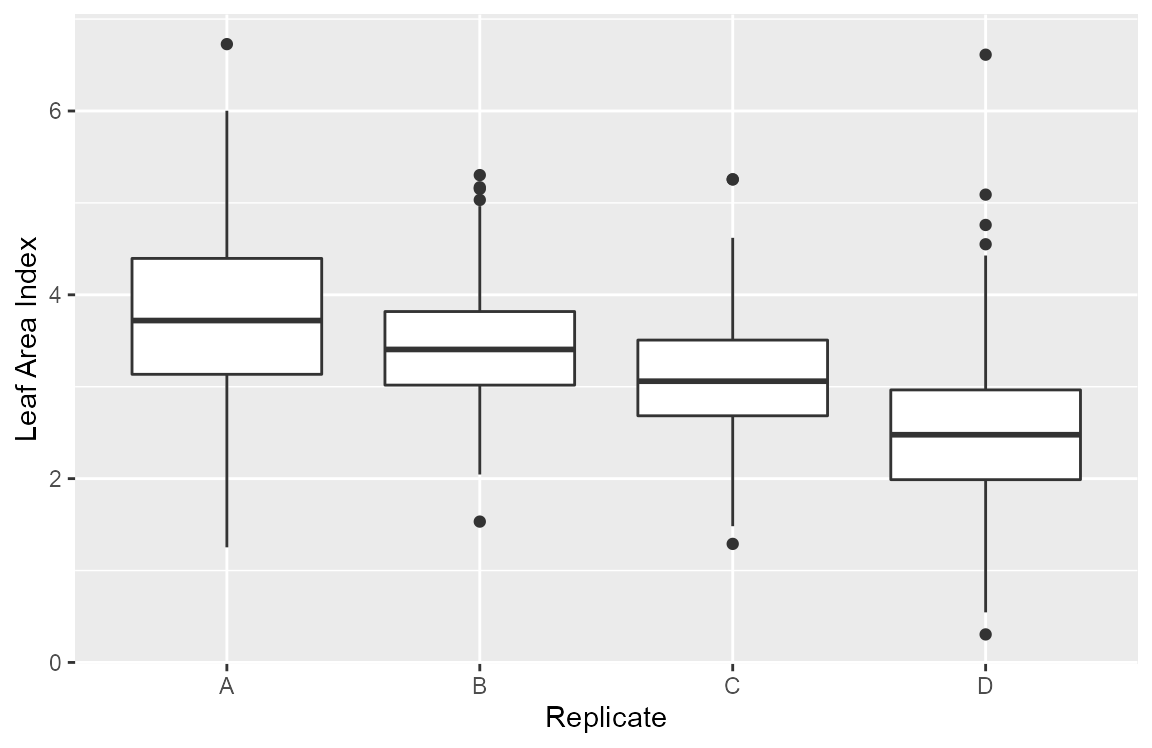
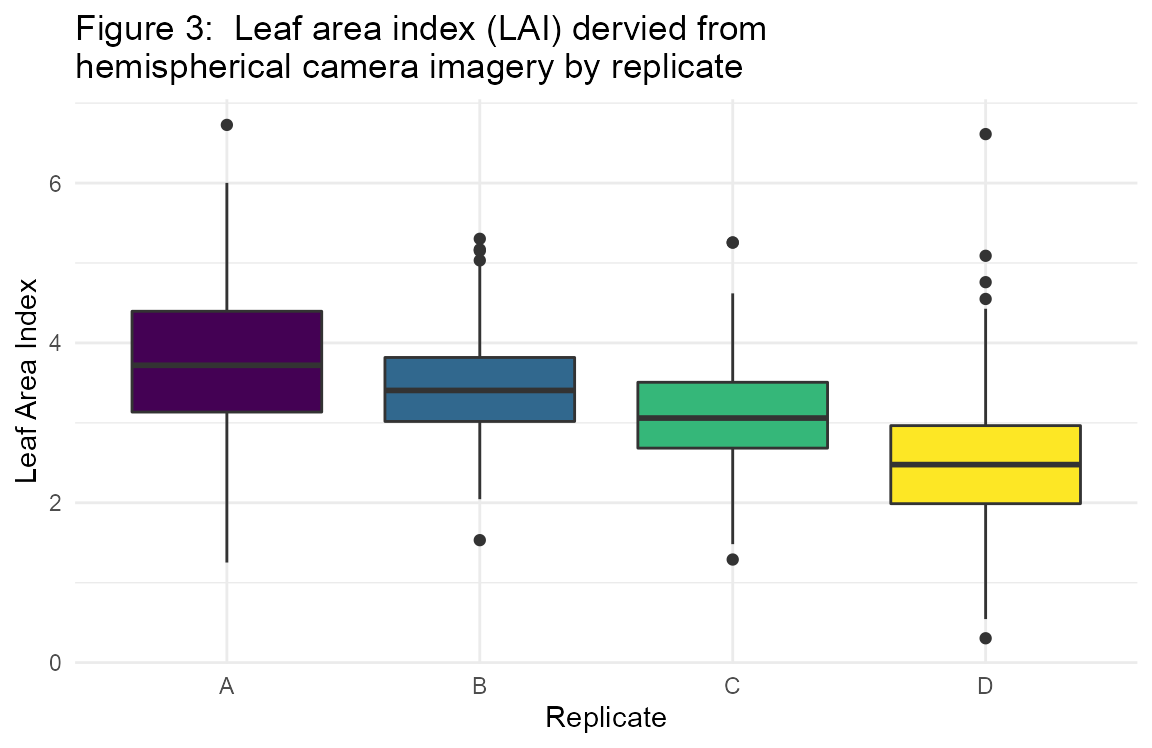
updating remote sensing vignette and fixing error in fd_ceptometer that had fapar calculated wrong

diff --git a/docs/articles/fd_remote_sensing_vignette.html b/docs/articles/fd_remote_sensing_vignette.html
@@ -105,21 +105,23 @@
 <div id="remote-sensing" class="section level2">
 <h2 class="hasAnchor">
 <a href="#remote-sensing" class="anchor"></a>Remote Sensing</h2>
-<p>Multiple remote sensing technologies are being employed in FoRTE to collect data with the goal of creating a record of forest structural and spectral change. These data are collected coincident with other data as outline below (see Remote Sensing Methods). Specifically we are focusing on collecting data monitoring canopy structural change. Canopy structure affects ecosystem functioning through altering light transmission/interception, subsequently affecting ecosystem functioning (e.g. productivity and the acquisition/use-efficiency of resources). See [the FoRTE Proposal Narrative] (<a href="https://fortexperiment.github.io/fortedata/articles/fd_forte_proposal_vignette.html" class="uri">https://fortexperiment.github.io/fortedata/articles/fd_forte_proposal_vignette.html</a>) for further details. Below we outline the remote sensing orienteed data and funcitons included in <code>fortedata</code>.</p>
+<p>Multiple remote sensing technologies are being employed in FoRTE to collect data with the goal of creating a record of forest canopy structural and spectral change. These data are collected coincident with other data as outlined below (see Remote Sensing Methods). Canopy structure affects ecosystem functioning through altering light transmission/interception, subsequently affecting ecosystem functioning (e.g. productivity and the acquisition/use-efficiency of resources). See [the FoRTE Proposal Narrative] (<a href="https://fortexperiment.github.io/fortedata/articles/fd_forte_proposal_vignette.html" class="uri">https://fortexperiment.github.io/fortedata/articles/fd_forte_proposal_vignette.html</a>) for further details.</p>
+<p>Below we outline the remote sensing oriented data and functions included in <code>fortedata</code>.</p>
 </div>
 <div id="remote-sensing-functions" class="section level2">
 <h2 class="hasAnchor">
 <a href="#remote-sensing-functions" class="anchor"></a>Remote Sensing Functions</h2>
 <p>The <code>fd_remote_sensing()</code> script within <code>fortedata</code> currently includes the following functions:</p>
 <ul>
-<li><p><code><a href="../reference/fd_hemi_camera.html">fd_hemi_camera()</a></code> returns a single dataset that includes derived estimates of leaf area index, gap fraction, clumping index, and NDVI (normalized difference vegetation index) from terrestrial, upward-facing hemispherical photos looking into the forest canopy taken 1 meter above-ground (Table S9 in ESSD manuscript, Atkins et al. 2020). The data package includes 1028 observations of each variable from 2018 and 2019.</p></li>
-<li><p><code><a href="../reference/fd_canopy_structure.html">fd_canopy_structure()</a></code> returns a single dataset that includes 28 structural metrics estimating canopy structural traits such as height, area/density, openness, complexity, and arrangement. Data were processed using <code>forestr</code> version 1.0.1 (Atkins et al. 2018) in R Version 3.6.2.</p></li>
-<li><p><code><a href="../reference/fd_ceptometer.html">fd_ceptometer()</a></code> returns a single dataset that includes estimates of the fraction of photosynthetically available radiation (faPAR) absorbed by the canopy as well as leaf area index (LAI_cept)–each derived from a handheld ceptometer (LP-80; Decagon Devices) (Table S11). The package includes 32 observations of each variable from 2019 and 16 from 2018 (Fig. 4). r</p></li>
+<li><p><code><a href="../reference/fd_hemi_camera.html">fd_hemi_camera()</a></code> returns a single data set that includes derived estimates of leaf area index, gap fraction, clumping index, and NDVI (normalized difference vegetation index) from terrestrial, upward-facing hemispherical photos looking into the forest canopy taken 1 meter above-ground (Table S9 in ESSD manuscript, Atkins et al. 2020).</p></li>
+<li><p><code><a href="../reference/fd_canopy_structure.html">fd_canopy_structure()</a></code> returns a single data set that includes 28 structural metrics estimating canopy structural traits such as height, area/density, openness, complexity, and arrangement. Data were processed using <code>forestr</code> version 1.0.1 (Atkins et al. 2018) in R Version 3.6.2.</p></li>
+<li><p><code><a href="../reference/fd_ceptometer.html">fd_ceptometer()</a></code> returns a single data set that includes estimates of the fraction of photosynthetically available radiation (faPAR) absorbed by the canopy as well as leaf area index (LAI_cept)–each derived from a handheld ceptometer (LP-80; Decagon Devices) (Table S11 in Atkins et al. 2020).</p></li>
 </ul>
 </div>
 <div id="data-availability" class="section level2">
 <h2 class="hasAnchor">
 <a href="#data-availability" class="anchor"></a>Data Availability</h2>
+<p><code>fortedata</code> is an evolving, open-science data package with data updated in near-real time. The current number of remote sensing data observations available as of 2020-12-07 are detailed in Figure 1.</p>
 <div class="sourceCode" id="cb1"><pre class="downlit sourceCode r">
 <code class="sourceCode R"><span class="va">no_of_records.df</span> <span class="op">&lt;-</span> <span class="fu"><a href="../reference/fd_observations.html">fd_observations</a></span><span class="op">(</span><span class="op">)</span>
 
@@ -136,7 +138,7 @@
   <span class="fu">ggplot2</span><span class="fu">::</span><span class="fu"><a href="https://ggplot2.tidyverse.org/reference/theme.html">theme</a></span><span class="op">(</span>legend.position <span class="op">=</span> <span class="st">"none"</span><span class="op">)</span><span class="op">+</span>
   <span class="fu">ggplot2</span><span class="fu">::</span><span class="fu"><a href="https://ggplot2.tidyverse.org/reference/labs.html">ylab</a></span><span class="op">(</span><span class="st">"Year"</span><span class="op">)</span><span class="op">+</span>
   <span class="fu">ggplot2</span><span class="fu">::</span><span class="fu"><a href="https://ggplot2.tidyverse.org/reference/labs.html">xlab</a></span><span class="op">(</span><span class="st">"Month"</span><span class="op">)</span><span class="op">+</span>
-  <span class="fu">ggplot2</span><span class="fu">::</span><span class="fu"><a href="https://ggplot2.tidyverse.org/reference/labs.html">ggtitle</a></span><span class="op">(</span><span class="fu"><a href="https://rdrr.io/r/base/paste.html">paste</a></span><span class="op">(</span><span class="st">"No. of observations currently available \nin each remote sensing function as of:"</span>, <span class="fu"><a href="https://rdrr.io/r/base/Sys.time.html">Sys.Date</a></span><span class="op">(</span><span class="op">)</span><span class="op">)</span><span class="op">)</span><span class="op">+</span>
+  <span class="fu">ggplot2</span><span class="fu">::</span><span class="fu"><a href="https://ggplot2.tidyverse.org/reference/labs.html">ggtitle</a></span><span class="op">(</span><span class="fu"><a href="https://rdrr.io/r/base/paste.html">paste</a></span><span class="op">(</span><span class="st">"Figure 1: No. of observations currently available \nin each remote sensing function as of:"</span>, <span class="fu"><a href="https://rdrr.io/r/base/Sys.time.html">Sys.Date</a></span><span class="op">(</span><span class="op">)</span><span class="op">)</span><span class="op">)</span><span class="op">+</span>
   <span class="fu">ggplot2</span><span class="fu">::</span><span class="fu"><a href="https://ggplot2.tidyverse.org/reference/facet_grid.html">facet_grid</a></span><span class="op">(</span><span class="va">table</span> <span class="op">~</span> <span class="va">.</span>,  space <span class="op">=</span> <span class="st">"free"</span><span class="op">)</span><span class="op">+</span>
   <span class="fu">ggplot2</span><span class="fu">::</span><span class="fu"><a href="https://ggplot2.tidyverse.org/reference/theme.html">theme</a></span><span class="op">(</span>strip.text.y <span class="op">=</span> <span class="fu">element_text</span><span class="op">(</span>size <span class="op">=</span> <span class="fl">9</span><span class="op">)</span>, strip.background <span class="op">=</span> <span class="fu">element_rect</span><span class="op">(</span>
     color<span class="op">=</span><span class="st">"black"</span>, fill<span class="op">=</span><span class="st">"white"</span>, size<span class="op">=</span> <span class="fl">0.5</span>, linetype<span class="op">=</span><span class="st">"solid"</span><span class="op">)</span><span class="op">)</span></code></pre></div>
@@ -145,15 +147,10 @@
 <div id="remote-sensing-methods" class="section level2">
 <h2 class="hasAnchor">
 <a href="#remote-sensing-methods" class="anchor"></a>Remote Sensing Methods</h2>
-<div id="terrestrial-lidar" class="section level3">
+<div id="canopy-structural-traits-csts-from-terrestrial-lidar" class="section level3">
 <h3 class="hasAnchor">
-<a href="#terrestrial-lidar" class="anchor"></a>Terrestrial lidar</h3>
-<p>Annual measurements of forest structure were taken using both 2- and 3-D terrestrial lidar during peak growing season (July-early August). 2-D lidar data are gathered using a Riegl 3100 VHSFLP portable canopy lidar unit (See Parker et al. 2004 and Hardiman et al. 2011 for a full description) and 3-D lidar data are collected using a Leica BLK360. Currently, 3-D lidar data are not included in <code>fortedata</code> due to processing delays resulting from Covid-19.</p>
-</div>
-<div id="canopy-structural-traits-csts" class="section level3">
-<h3 class="hasAnchor">
-<a href="#canopy-structural-traits-csts" class="anchor"></a>Canopy Structural Traits (CSTs)</h3>
-<p>We derived canopy structural trait metrics (Fahey et al. 2019) from 2-D terrestrial lidar data collected with a user-mounted, portable canopy lidar (PCL) system equipped with an upward facing, Riegl 3100VHS near‐infrared pulsed‐laser operating at 2000 Hz (Riegl LD90 3100 VHS; Riegl USA Inc., Orlando, Florida, USA). The PCL generates continuous LiDAR returns from a “slice” of the canopy as it is walked along a measured transect. For this study, we used 40 m transects at cardinal directions–north-to-south, east-to-west–through subplot center for a total of 80 m of transect length per subplot. This mirrors the approach of Atkins et al. (2018) and Hardiman et al. (2013) and is sufficient to account for spatial variability of forest structure (Hardiman et al. 2019). A more detailed description of the development and implementation of this terrestrial laser scanning system is available in Parker et al. (2004) and Hardiman et al. ( 2011). We derived canopy structural metrics using the forestr package (Atkins et al. 2018a, b) in R 3.5 (R Core Team, 2018). forestr produces a suite of canopy structural traits metrics that describe canopy area/density, openness, height, complexity, and arrangement (Atkins et al. (2018a).</p>
+<a href="#canopy-structural-traits-csts-from-terrestrial-lidar" class="anchor"></a>Canopy Structural Traits (CSTs) from Terrestrial LiDAR</h3>
+<p><code><a href="../reference/fd_canopy_structure.html">fd_canopy_structure()</a></code> contains canopy structural trait metrics (Fahey et al. 2019) derived from 2-D terrestrial lidar data. These data were collected with a user-mounted, portable canopy LiDAR (PCL) system equipped with an upward facing, pulsed‐laser operating at 2000 Hz (Riegl LD90 3100 VHS; Riegl USA Inc., Orlando, Florida, USA). The PCL generates continuous LiDAR returns from a “slice” of the canopy as it is walked along a measured transect. For this study, we used 40 m transects at cardinal directions–north-to-south, east-to-west–through subplot center for a total of 80 m of transect length per subplot. This mirrors the approach of Atkins et al. (2018) and Hardiman et al. (2013) and is sufficient to account for spatial variability of forest structure (Hardiman et al. 2019). A more detailed description of the development and implementation of this terrestrial laser scanning system is available in Parker et al. (2004) and Hardiman et al. ( 2011). We derived canopy structural metrics using the <code>forestr</code> package (Atkins et al. 2018a, b) in R 3.5 (R Core Team, 2018). Data here are provided at the transect level, but should be averaged to make a plot mean.</p>
 <div class="sourceCode" id="cb2"><pre class="downlit sourceCode r">
 <code class="sourceCode R"><span class="fu"><a href="https://rdrr.io/r/base/data.frame.html">data.frame</a></span><span class="op">(</span><span class="fu"><a href="../reference/fd_canopy_structure_summary.html">fd_canopy_structure_summary</a></span><span class="op">(</span><span class="op">)</span><span class="op">)</span>
 <span class="co">##   replicate  rugosity rugosity_sd rugosity_n rugosity_se vai_mean vai_mean_sd</span>
@@ -169,17 +166,28 @@
 <div class="sourceCode" id="cb3"><pre class="downlit sourceCode r">
 <code class="sourceCode R"><span class="va">x</span> <span class="op">&lt;-</span> <span class="fu"><a href="../reference/fd_canopy_structure.html">fd_canopy_structure</a></span><span class="op">(</span><span class="op">)</span>
 
-<span class="fu">ggplot2</span><span class="fu">::</span><span class="fu"><a href="https://ggplot2.tidyverse.org/reference/ggplot.html">ggplot</a></span><span class="op">(</span><span class="va">x</span>, <span class="fu">aes</span><span class="op">(</span>y <span class="op">=</span> <span class="va">rugosity</span>, x <span class="op">=</span> <span class="va">replicate</span><span class="op">)</span><span class="op">)</span><span class="op">+</span>
+<span class="fu">ggplot2</span><span class="fu">::</span><span class="fu"><a href="https://ggplot2.tidyverse.org/reference/ggplot.html">ggplot</a></span><span class="op">(</span><span class="va">x</span>, <span class="fu">aes</span><span class="op">(</span>y <span class="op">=</span> <span class="va">rugosity</span>, x <span class="op">=</span> <span class="va">replicate</span>, fill <span class="op">=</span> <span class="fu"><a href="https://rdrr.io/r/base/factor.html">as.factor</a></span><span class="op">(</span><span class="va">replicate</span><span class="op">)</span><span class="op">)</span><span class="op">)</span><span class="op">+</span>
   <span class="fu">ggplot2</span><span class="fu">::</span><span class="fu"><a href="https://ggplot2.tidyverse.org/reference/geom_boxplot.html">geom_boxplot</a></span><span class="op">(</span><span class="op">)</span><span class="op">+</span>
   <span class="fu">ggplot2</span><span class="fu">::</span><span class="fu"><a href="https://ggplot2.tidyverse.org/reference/labs.html">xlab</a></span><span class="op">(</span><span class="st">"Replicate"</span><span class="op">)</span><span class="op">+</span>
   <span class="fu">ggplot2</span><span class="fu">::</span><span class="fu"><a href="https://ggplot2.tidyverse.org/reference/labs.html">ylab</a></span><span class="op">(</span><span class="st">"Canopy Rugosity [m]"</span><span class="op">)</span><span class="op">+</span>
+  <span class="fu">theme_minimal</span><span class="op">(</span><span class="op">)</span><span class="op">+</span>
+  <span class="fu">viridis</span><span class="fu">::</span><span class="fu"><a href="https://rdrr.io/pkg/viridis/man/scale_viridis.html">scale_color_viridis</a></span><span class="op">(</span>discrete <span class="op">=</span> <span class="cn">TRUE</span>, option <span class="op">=</span> <span class="st">"D"</span><span class="op">)</span><span class="op">+</span>
+  <span class="fu">viridis</span><span class="fu">::</span><span class="fu"><a href="https://rdrr.io/pkg/viridis/man/scale_viridis.html">scale_fill_viridis</a></span><span class="op">(</span>discrete <span class="op">=</span> <span class="cn">TRUE</span><span class="op">)</span><span class="op">+</span>
+    <span class="fu">ggplot2</span><span class="fu">::</span><span class="fu"><a href="https://ggplot2.tidyverse.org/reference/labs.html">ggtitle</a></span><span class="op">(</span><span class="fu"><a href="https://rdrr.io/r/base/paste.html">paste</a></span><span class="op">(</span><span class="st">"Figure 2:  Canopy rugosity, a measure of canopy structural \n complexity by replicate, by year"</span><span class="op">)</span><span class="op">)</span><span class="op">+</span>
+  <span class="fu">theme</span><span class="op">(</span>legend.position <span class="op">=</span> <span class="st">"NONE"</span><span class="op">)</span><span class="op">+</span>
   <span class="fu">ggplot2</span><span class="fu">::</span><span class="fu"><a href="https://ggplot2.tidyverse.org/reference/facet_grid.html">facet_grid</a></span><span class="op">(</span><span class="va">.</span><span class="op">~</span><span class="va">year</span><span class="op">)</span></code></pre></div>
 <p><img src="fd_remote_sensing_vignette_files/figure-html/rug-1.png" width="576" style="display: block; margin: auto;"></p>
 </div>
 <div id="hemispherical-camera-imagery" class="section level3">
 <h3 class="hasAnchor">
 <a href="#hemispherical-camera-imagery" class="anchor"></a>Hemispherical Camera Imagery</h3>
-<p>Below-canopy, hemispherical images were taken using a 24 Megapixel DSLR camera (Regent Instruments; Quebec, QU, Canda) with a 180° hemispherical lens during peak leaf-out (~July). The camera was facing-upwards, into the canopy and was mounted on a self-leveling tripod with the lens at 1 m from the ground. Leaf area index (LAI<sub>CAM</sub>) was estimated using WinSCANOPY (Regent Instruments).</p>
+<p>Below-canopy, hemispherical images were taken using a 24 Megapixel DSLR camera (Regent Instruments; Quebec, QU, Canda) with a 180° hemispherical lens during peak leaf-out (~July). The camera was facing-upwards, into the canopy and was mounted on a self-leveling tripod with the lens at 1 m from the ground. Leaf area index (LAI<sub>CAM</sub>) was estimated using WinSCANOPY (Regent Instruments). Images were taken at all nested subplots (see <code>fd_experimental_design_vignette</code>).</p>
+<div class="figure">
+<img src="https://user-images.githubusercontent.com/8354517/87794606-dd8b0c80-c814-11ea-982a-5b3ee7920d86.jpg" style="width:40.0%" alt=""><p class="caption">Sample NDVI image</p>
+</div>
+<div class="figure">
+<img src="https://user-images.githubusercontent.com/8354517/87785843-e83ea500-c806-11ea-8218-d04d0f6d3a1d.jpg" style="width:50.0%" alt=""><p class="caption">REU student Evan Paris taking images of the canopy using the NDVI camera</p>
+</div>
 <div class="sourceCode" id="cb4"><pre class="downlit sourceCode r">
 <code class="sourceCode R"><span class="fu"><a href="../reference/fd_hemi_camera.html">fd_hemi_camera</a></span><span class="op">(</span><span class="op">)</span>
 <span class="co">## # A tibble: 1,189 x 11</span>
@@ -200,10 +208,15 @@
 <div class="sourceCode" id="cb5"><pre class="downlit sourceCode r">
 <code class="sourceCode R"><span class="va">x</span> <span class="op">&lt;-</span> <span class="fu"><a href="../reference/fd_hemi_camera.html">fd_hemi_camera</a></span><span class="op">(</span><span class="op">)</span>
 
-<span class="fu">ggplot</span><span class="op">(</span><span class="va">x</span>, <span class="fu">aes</span><span class="op">(</span>y <span class="op">=</span> <span class="va">lai_cam</span>, x <span class="op">=</span> <span class="va">replicate</span><span class="op">)</span><span class="op">)</span><span class="op">+</span>
+<span class="fu">ggplot</span><span class="op">(</span><span class="va">x</span>, <span class="fu">aes</span><span class="op">(</span>y <span class="op">=</span> <span class="va">lai_cam</span>, x <span class="op">=</span> <span class="va">replicate</span>, fill <span class="op">=</span> <span class="fu"><a href="https://rdrr.io/r/base/factor.html">as.factor</a></span><span class="op">(</span><span class="va">replicate</span><span class="op">)</span><span class="op">)</span><span class="op">)</span><span class="op">+</span>
   <span class="fu">geom_boxplot</span><span class="op">(</span><span class="op">)</span><span class="op">+</span>
   <span class="fu">xlab</span><span class="op">(</span><span class="st">"Replicate"</span><span class="op">)</span><span class="op">+</span>
-  <span class="fu">ylab</span><span class="op">(</span><span class="st">"Leaf Area Index"</span><span class="op">)</span></code></pre></div>
+  <span class="fu">ylab</span><span class="op">(</span><span class="st">"Leaf Area Index"</span><span class="op">)</span><span class="op">+</span>
+  <span class="fu">theme_minimal</span><span class="op">(</span><span class="op">)</span><span class="op">+</span>
+  <span class="fu">viridis</span><span class="fu">::</span><span class="fu"><a href="https://rdrr.io/pkg/viridis/man/scale_viridis.html">scale_color_viridis</a></span><span class="op">(</span>discrete <span class="op">=</span> <span class="cn">TRUE</span>, option <span class="op">=</span> <span class="st">"D"</span><span class="op">)</span><span class="op">+</span>
+  <span class="fu">viridis</span><span class="fu">::</span><span class="fu"><a href="https://rdrr.io/pkg/viridis/man/scale_viridis.html">scale_fill_viridis</a></span><span class="op">(</span>discrete <span class="op">=</span> <span class="cn">TRUE</span><span class="op">)</span><span class="op">+</span>
+      <span class="fu">ggplot2</span><span class="fu">::</span><span class="fu"><a href="https://ggplot2.tidyverse.org/reference/labs.html">ggtitle</a></span><span class="op">(</span><span class="fu"><a href="https://rdrr.io/r/base/paste.html">paste</a></span><span class="op">(</span><span class="st">"Figure 3:  Leaf area index (LAI) dervied from \nhemispherical camera imagery by replicate"</span><span class="op">)</span><span class="op">)</span><span class="op">+</span>
+  <span class="fu">theme</span><span class="op">(</span>legend.position <span class="op">=</span> <span class="st">"NONE"</span><span class="op">)</span></code></pre></div>
 <p><img src="fd_remote_sensing_vignette_files/figure-html/cam-1.png" width="576"></p>
 </div>
 <div id="light-interception" class="section level3">
@@ -213,27 +226,43 @@
 <div class="sourceCode" id="cb6"><pre class="downlit sourceCode r">
 <code class="sourceCode R"><span class="fu"><a href="../reference/fd_ceptometer.html">fd_ceptometer</a></span><span class="op">(</span><span class="op">)</span>
 <span class="co">## # A tibble: 48 x 9</span>
-<span class="co">##    subplot_id replicate  plot subplot timestamp           a_par b_par  fapar</span>
-<span class="co">##    &lt;chr&gt;      &lt;chr&gt;     &lt;int&gt; &lt;chr&gt;   &lt;dttm&gt;              &lt;dbl&gt; &lt;dbl&gt;  &lt;dbl&gt;</span>
-<span class="co">##  1 D01W       D             1 W       2018-07-25 10:45:00 1276.  61.8 0.0484</span>
-<span class="co">##  2 D03W       D             3 W       2018-07-25 10:56:00 1305.  98.3 0.0753</span>
-<span class="co">##  3 D04W       D             4 W       2018-07-25 11:07:00 1305. 345.  0.265 </span>
-<span class="co">##  4 D02W       D             2 W       2018-07-25 11:17:00 1367.  58   0.0424</span>
-<span class="co">##  5 C04W       C             4 W       2018-07-25 11:24:00 1439.  40.6 0.0282</span>
-<span class="co">##  6 C03W       C             3 W       2018-07-25 11:34:00 1383.  43.5 0.0315</span>
-<span class="co">##  7 C02W       C             2 W       2018-07-25 11:45:00 1464.  49.5 0.0338</span>
-<span class="co">##  8 C01W       C             1 W       2018-07-25 11:52:00 1475. 116   0.0786</span>
-<span class="co">##  9 B04W       B             4 W       2018-07-25 13:25:00 1708.  61.7 0.0361</span>
-<span class="co">## 10 B03E       B             3 E       2018-07-25 13:36:00 1768. 110.  0.0623</span>
+<span class="co">##    subplot_id replicate  plot subplot timestamp           a_par b_par fapar</span>
+<span class="co">##    &lt;chr&gt;      &lt;chr&gt;     &lt;int&gt; &lt;chr&gt;   &lt;dttm&gt;              &lt;dbl&gt; &lt;dbl&gt; &lt;dbl&gt;</span>
+<span class="co">##  1 D01W       D             1 W       2018-07-25 10:45:00 1276.  61.8 0.952</span>
+<span class="co">##  2 D03W       D             3 W       2018-07-25 10:56:00 1305.  98.3 0.925</span>
+<span class="co">##  3 D04W       D             4 W       2018-07-25 11:07:00 1305. 345.  0.735</span>
+<span class="co">##  4 D02W       D             2 W       2018-07-25 11:17:00 1367.  58   0.958</span>
+<span class="co">##  5 C04W       C             4 W       2018-07-25 11:24:00 1439.  40.6 0.972</span>
+<span class="co">##  6 C03W       C             3 W       2018-07-25 11:34:00 1383.  43.5 0.969</span>
+<span class="co">##  7 C02W       C             2 W       2018-07-25 11:45:00 1464.  49.5 0.966</span>
+<span class="co">##  8 C01W       C             1 W       2018-07-25 11:52:00 1475. 116   0.921</span>
+<span class="co">##  9 B04W       B             4 W       2018-07-25 13:25:00 1708.  61.7 0.964</span>
+<span class="co">## 10 B03E       B             3 E       2018-07-25 13:36:00 1768. 110.  0.938</span>
 <span class="co">## # ... with 38 more rows, and 1 more variable: lai_cept &lt;dbl&gt;</span></code></pre></div>
+<div class="sourceCode" id="cb7"><pre class="downlit sourceCode r">
+<code class="sourceCode R"><span class="va">x</span> <span class="op">&lt;-</span> <span class="fu"><a href="../reference/fd_ceptometer.html">fd_ceptometer</a></span><span class="op">(</span><span class="op">)</span>
+
+<span class="fu">ggplot</span><span class="op">(</span><span class="va">x</span>, <span class="fu">aes</span><span class="op">(</span>y <span class="op">=</span> <span class="va">fapar</span>, x <span class="op">=</span> <span class="va">replicate</span>, fill <span class="op">=</span> <span class="fu"><a href="https://rdrr.io/r/base/factor.html">as.factor</a></span><span class="op">(</span><span class="va">replicate</span><span class="op">)</span><span class="op">)</span><span class="op">)</span><span class="op">+</span>
+  <span class="fu">geom_boxplot</span><span class="op">(</span><span class="op">)</span><span class="op">+</span>
+  <span class="fu">xlab</span><span class="op">(</span><span class="st">"Replicate"</span><span class="op">)</span><span class="op">+</span>
+  <span class="fu">ylab</span><span class="op">(</span><span class="st">"faPAR"</span><span class="op">)</span><span class="op">+</span>
+  <span class="fu">theme_minimal</span><span class="op">(</span><span class="op">)</span><span class="op">+</span>
+  <span class="fu">viridis</span><span class="fu">::</span><span class="fu"><a href="https://rdrr.io/pkg/viridis/man/scale_viridis.html">scale_color_viridis</a></span><span class="op">(</span>discrete <span class="op">=</span> <span class="cn">TRUE</span>, option <span class="op">=</span> <span class="st">"D"</span><span class="op">)</span><span class="op">+</span>
+  <span class="fu">viridis</span><span class="fu">::</span><span class="fu"><a href="https://rdrr.io/pkg/viridis/man/scale_viridis.html">scale_fill_viridis</a></span><span class="op">(</span>discrete <span class="op">=</span> <span class="cn">TRUE</span><span class="op">)</span><span class="op">+</span>
+      <span class="fu">ggplot2</span><span class="fu">::</span><span class="fu"><a href="https://ggplot2.tidyverse.org/reference/labs.html">ggtitle</a></span><span class="op">(</span><span class="fu"><a href="https://rdrr.io/r/base/paste.html">paste</a></span><span class="op">(</span><span class="st">"Figure 4:  Fraction of absorbed photosynthetically available \nradiation in units of umol per m^2 per s^-1"</span><span class="op">)</span><span class="op">)</span><span class="op">+</span>
+  <span class="fu">theme</span><span class="op">(</span>legend.position <span class="op">=</span> <span class="st">"NONE"</span><span class="op">)</span></code></pre></div>
+<p><img src="fd_remote_sensing_vignette_files/figure-html/light-1.png" width="576"></p>
 </div>
 </div>
 <div id="references" class="section level2">
 <h2 class="hasAnchor">
 <a href="#references" class="anchor"></a>References</h2>
 <p><a href="https://besjournals.onlinelibrary.wiley.com/doi/pdf/10.1111/2041-210X.13061">Atkins, J. W., Bohrer, G., Fahey, R. T., Hardiman, B. S., Morin, T. H., Stovall, A. E., … &amp; Gough, C. M. (2018). Quantifying vegetation and canopy structural complexity from terrestrial LiDAR data using the forestr r package. Methods in Ecology and Evolution, 9(10), 2057-2066.</a></p>
+<p><a href="https://agupubs.onlinelibrary.wiley.com/doi/pdf/10.1002/2017JG004256">Atkins, J. W., Fahey, R. T., Hardiman, B. S., &amp; Gough, C. M. (2018). Forest canopy structural complexity and light absorption relationships at the subcontinental scale. Journal of Geophysical Research: Biogeosciences, 123(4), 1387-1405.</a></p>
 <p><a href="https://essd.copernicus.org/preprints/essd-2020-112/essd-2020-112.pdf">Atkins, J. W., Agee, E., Barry, A., Dahlin, K. M., Dorheim, K., Grigri, M. S., … &amp; McGuigan, C. (2020). The fortedata R package: open-science datasets from a manipulative experiment testing forest resilience. Earth System Science Data Discussions, 1-18.</a></p>
 <p><a href="https://esajournals.onlinelibrary.wiley.com/doi/pdf/10.1890/10-2192.1?casa_token=MQZpgQKa6ewAAAAA:DSJJvB1zmKSdyDGGjQzVdvBfobmyYlp1uOl2oa9fn8mvetH1-z2fgqdnyD5EJxPjRPqUHOx4Jn1c-Q">Hardiman, B. S., Bohrer, G., Gough, C. M., Vogel, C. S., &amp; Curtis, P. S. (2011). The role of canopy structural complexity in wood net primary production of a maturing northern deciduous forest. Ecology, 92(9), 1818-1827.</a></p>
+<p><a href="https://www.sciencedirect.com/science/article/pii/S0378112713001254?casa_token=FSJdcOIwwIgAAAAA:0u-usQHRIsHQipxdgFRnkLpDLpjvoV2yMueSmilbJq0nvXOp9Vmx6RFcpVxtFJxKN-pxqjEl">Hardiman, B. S., Gough, C. M., Halperin, A., Hofmeister, K. L., Nave, L. E., Bohrer, G., &amp; Curtis, P. S. (2013). Maintaining high rates of carbon storage in old forests: A mechanism linking canopy structure to forest function. Forest Ecology and Management, 298, 111-119.</a></p>
+<p><a href="https://www.mdpi.com/1999-4907/9/8/474/htm">Hardiman, B. S., LaRue, E. A., Atkins, J. W., Fahey, R. T., Wagner, F. W., &amp; Gough, C. M. (2018). Spatial variation in canopy structure across forest landscapes. Forests, 9(8), 474.</a></p>
 <p><a href="https://besjournals.onlinelibrary.wiley.com/doi/pdf/10.1111/j.0021-8901.2004.00925.x">Parker, G. G., Harding, D. J., &amp; Berger, M. L. (2004). A portable LIDAR system for rapid determination of forest canopy structure. Journal of Applied Ecology, 41(4), 755-767.</a></p>
 </div>
   </div>

diff --git a/docs/reference/fd_ceptometer.html b/docs/reference/fd_ceptometer.html
@@ -157,18 +157,18 @@ a Decagon LP-80 Handheld Ceptometer</p>
     <h2 class="hasAnchor" id="examples"><a class="anchor" href="#examples"></a>Examples</h2>
     <pre class="examples"><div class='input'><span class='fu'>fd_ceptometer</span><span class='op'>(</span><span class='op'>)</span>
 </div><div class='output co'>#&gt; <span style='color: #555555;'># A tibble: 48 x 9</span><span>
-#&gt;    subplot_id replicate  plot subplot timestamp           a_par b_par  fapar
-#&gt;    </span><span style='color: #555555;font-style: italic;'>&lt;chr&gt;</span><span>      </span><span style='color: #555555;font-style: italic;'>&lt;chr&gt;</span><span>     </span><span style='color: #555555;font-style: italic;'>&lt;int&gt;</span><span> </span><span style='color: #555555;font-style: italic;'>&lt;chr&gt;</span><span>   </span><span style='color: #555555;font-style: italic;'>&lt;dttm&gt;</span><span>              </span><span style='color: #555555;font-style: italic;'>&lt;dbl&gt;</span><span> </span><span style='color: #555555;font-style: italic;'>&lt;dbl&gt;</span><span>  </span><span style='color: #555555;font-style: italic;'>&lt;dbl&gt;</span><span>
-#&gt; </span><span style='color: #555555;'> 1</span><span> D01W       D             1 W       2018-07-25 </span><span style='color: #555555;'>10:45:00</span><span> </span><span style='text-decoration: underline;'>1</span><span>276.  61.8 0.048</span><span style='text-decoration: underline;'>4</span><span>
-#&gt; </span><span style='color: #555555;'> 2</span><span> D03W       D             3 W       2018-07-25 </span><span style='color: #555555;'>10:56:00</span><span> </span><span style='text-decoration: underline;'>1</span><span>305.  98.3 0.075</span><span style='text-decoration: underline;'>3</span><span>
-#&gt; </span><span style='color: #555555;'> 3</span><span> D04W       D             4 W       2018-07-25 </span><span style='color: #555555;'>11:07:00</span><span> </span><span style='text-decoration: underline;'>1</span><span>305. 345.  0.265 
-#&gt; </span><span style='color: #555555;'> 4</span><span> D02W       D             2 W       2018-07-25 </span><span style='color: #555555;'>11:17:00</span><span> </span><span style='text-decoration: underline;'>1</span><span>367.  58   0.042</span><span style='text-decoration: underline;'>4</span><span>
-#&gt; </span><span style='color: #555555;'> 5</span><span> C04W       C             4 W       2018-07-25 </span><span style='color: #555555;'>11:24:00</span><span> </span><span style='text-decoration: underline;'>1</span><span>439.  40.6 0.028</span><span style='text-decoration: underline;'>2</span><span>
-#&gt; </span><span style='color: #555555;'> 6</span><span> C03W       C             3 W       2018-07-25 </span><span style='color: #555555;'>11:34:00</span><span> </span><span style='text-decoration: underline;'>1</span><span>383.  43.5 0.031</span><span style='text-decoration: underline;'>5</span><span>
-#&gt; </span><span style='color: #555555;'> 7</span><span> C02W       C             2 W       2018-07-25 </span><span style='color: #555555;'>11:45:00</span><span> </span><span style='text-decoration: underline;'>1</span><span>464.  49.5 0.033</span><span style='text-decoration: underline;'>8</span><span>
-#&gt; </span><span style='color: #555555;'> 8</span><span> C01W       C             1 W       2018-07-25 </span><span style='color: #555555;'>11:52:00</span><span> </span><span style='text-decoration: underline;'>1</span><span>475. 116   0.078</span><span style='text-decoration: underline;'>6</span><span>
-#&gt; </span><span style='color: #555555;'> 9</span><span> B04W       B             4 W       2018-07-25 </span><span style='color: #555555;'>13:25:00</span><span> </span><span style='text-decoration: underline;'>1</span><span>708.  61.7 0.036</span><span style='text-decoration: underline;'>1</span><span>
-#&gt; </span><span style='color: #555555;'>10</span><span> B03E       B             3 E       2018-07-25 </span><span style='color: #555555;'>13:36:00</span><span> </span><span style='text-decoration: underline;'>1</span><span>768. 110.  0.062</span><span style='text-decoration: underline;'>3</span><span>
+#&gt;    subplot_id replicate  plot subplot timestamp           a_par b_par fapar
+#&gt;    </span><span style='color: #555555;font-style: italic;'>&lt;chr&gt;</span><span>      </span><span style='color: #555555;font-style: italic;'>&lt;chr&gt;</span><span>     </span><span style='color: #555555;font-style: italic;'>&lt;int&gt;</span><span> </span><span style='color: #555555;font-style: italic;'>&lt;chr&gt;</span><span>   </span><span style='color: #555555;font-style: italic;'>&lt;dttm&gt;</span><span>              </span><span style='color: #555555;font-style: italic;'>&lt;dbl&gt;</span><span> </span><span style='color: #555555;font-style: italic;'>&lt;dbl&gt;</span><span> </span><span style='color: #555555;font-style: italic;'>&lt;dbl&gt;</span><span>
+#&gt; </span><span style='color: #555555;'> 1</span><span> D01W       D             1 W       2018-07-25 </span><span style='color: #555555;'>10:45:00</span><span> </span><span style='text-decoration: underline;'>1</span><span>276.  61.8 0.952
+#&gt; </span><span style='color: #555555;'> 2</span><span> D03W       D             3 W       2018-07-25 </span><span style='color: #555555;'>10:56:00</span><span> </span><span style='text-decoration: underline;'>1</span><span>305.  98.3 0.925
+#&gt; </span><span style='color: #555555;'> 3</span><span> D04W       D             4 W       2018-07-25 </span><span style='color: #555555;'>11:07:00</span><span> </span><span style='text-decoration: underline;'>1</span><span>305. 345.  0.735
+#&gt; </span><span style='color: #555555;'> 4</span><span> D02W       D             2 W       2018-07-25 </span><span style='color: #555555;'>11:17:00</span><span> </span><span style='text-decoration: underline;'>1</span><span>367.  58   0.958
+#&gt; </span><span style='color: #555555;'> 5</span><span> C04W       C             4 W       2018-07-25 </span><span style='color: #555555;'>11:24:00</span><span> </span><span style='text-decoration: underline;'>1</span><span>439.  40.6 0.972
+#&gt; </span><span style='color: #555555;'> 6</span><span> C03W       C             3 W       2018-07-25 </span><span style='color: #555555;'>11:34:00</span><span> </span><span style='text-decoration: underline;'>1</span><span>383.  43.5 0.969
+#&gt; </span><span style='color: #555555;'> 7</span><span> C02W       C             2 W       2018-07-25 </span><span style='color: #555555;'>11:45:00</span><span> </span><span style='text-decoration: underline;'>1</span><span>464.  49.5 0.966
+#&gt; </span><span style='color: #555555;'> 8</span><span> C01W       C             1 W       2018-07-25 </span><span style='color: #555555;'>11:52:00</span><span> </span><span style='text-decoration: underline;'>1</span><span>475. 116   0.921
+#&gt; </span><span style='color: #555555;'> 9</span><span> B04W       B             4 W       2018-07-25 </span><span style='color: #555555;'>13:25:00</span><span> </span><span style='text-decoration: underline;'>1</span><span>708.  61.7 0.964
+#&gt; </span><span style='color: #555555;'>10</span><span> B03E       B             3 E       2018-07-25 </span><span style='color: #555555;'>13:36:00</span><span> </span><span style='text-decoration: underline;'>1</span><span>768. 110.  0.938
 #&gt; </span><span style='color: #555555;'># ... with 38 more rows, and 1 more variable: lai_cept </span><span style='color: #555555;font-style: italic;'>&lt;dbl&gt;</span><span></div></span></pre>
   </div>
   <div class="col-md-3 hidden-xs hidden-sm" id="pkgdown-sidebar">
